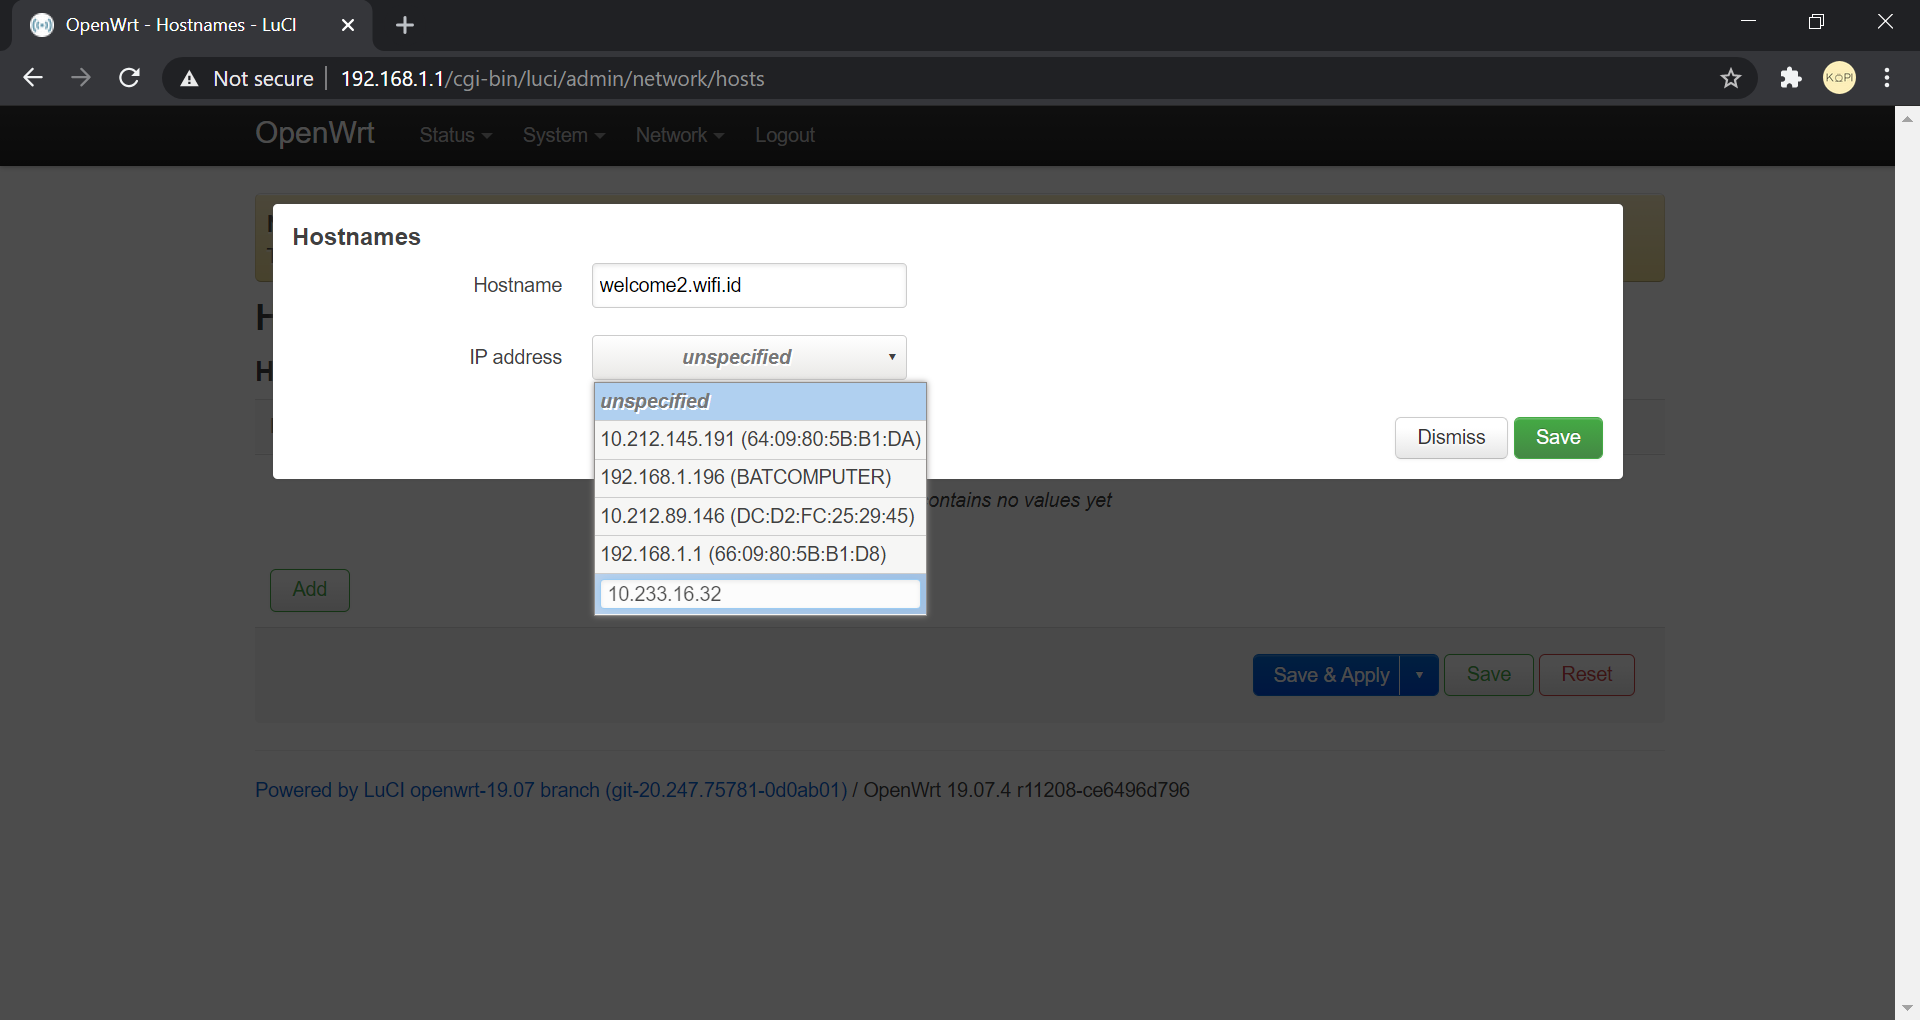
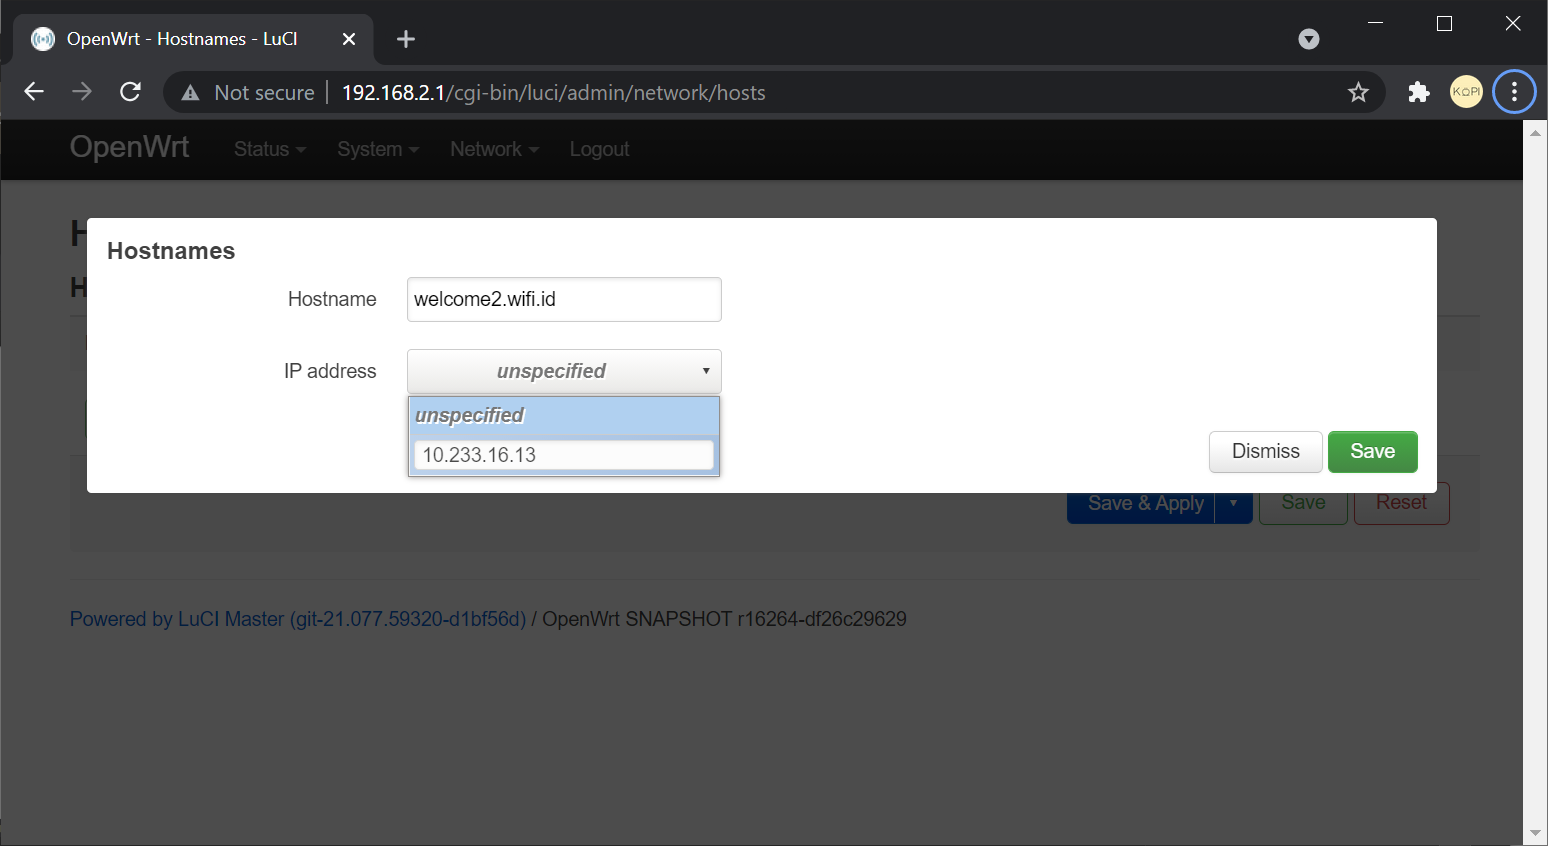
update articles

diff --git a/posts/autologin-kopijahe/index.html b/posts/autologin-kopijahe/index.html
@@ -1,4 +1,4 @@
-<!doctype html><html lang=en><head><meta charset=utf-8><meta http-equiv=x-ua-compatible content="IE=edge"><meta name=viewport content="width=device-width,initial-scale=1,shrink-to-fit=no"><title>Tutorial Penggunaan Aplikasi Autologin - Blog KopiJahe</title><meta name=description content="Pada kesempatan kali ini, saya merilis aplikasi untuk keperluan login otomatis di jaringan @wifi.id dan wms dan turunannya dengan berbagai fitur"><meta name=keywords content="/"><meta name=author content="KopiJahe"><link rel=canonical href=https://blog.kopijahe.my.id/posts/autologin-kopijahe/><meta name=google-site-verification content="XYZabc"><link href=https://blog.kopijahe.my.id/assets/css/stylesheet.min.17993db319ec7e8f0f1cc1fa992a916d01e3c8836ebbfd6f6876d9bbe8f73603.css integrity="sha256-F5k9sxnsfo8PHMH6mSqRbQHjyINuu/1vaHbZu+j3NgM=" rel="preload stylesheet" as=style><link rel=apple-touch-icon href=https://blog.kopijahe.my.id/apple-touch-icon.png><link rel=icon href=https://blog.kopijahe.my.id/favicon.ico><meta name=generator content="Hugo 0.75.1"><script type=application/javascript>var doNotTrack=false;if(!doNotTrack){window.ga=window.ga||function(){(ga.q=ga.q||[]).push(arguments)};ga.l=+new Date;ga('create','UA-179524169-1','auto');ga('send','pageview');}</script><script async src=https://www.google-analytics.com/analytics.js></script><meta property="og:title" content="Tutorial Penggunaan Aplikasi Autologin"><meta property="og:description" content="Pada kesempatan kali ini, saya merilis aplikasi untuk keperluan login otomatis di jaringan @wifi.id dan wms dan turunannya dengan berbagai fitur"><meta property="og:type" content="article"><meta property="og:url" content="https://blog.kopijahe.my.id/posts/autologin-kopijahe/"><meta property="og:image" content="https://blog.kopijahe.my.id/60"><meta property="article:published_time" content="2020-12-10T10:41:55+07:00"><meta property="article:modified_time" content="2020-12-10T10:41:55+07:00"><meta property="og:site_name" content="KopiJahe"><meta name=twitter:card content="summary_large_image"><meta name=twitter:image content="https://blog.kopijahe.my.id/60"><meta name=twitter:title content="Tutorial Penggunaan Aplikasi Autologin"><meta name=twitter:description content="Pada kesempatan kali ini, saya merilis aplikasi untuk keperluan login otomatis di jaringan @wifi.id dan wms dan turunannya dengan berbagai fitur"><meta itemprop=name content="Tutorial Penggunaan Aplikasi Autologin"><meta itemprop=description content="Pada kesempatan kali ini, saya merilis aplikasi untuk keperluan login otomatis di jaringan @wifi.id dan wms dan turunannya dengan berbagai fitur"><meta itemprop=datePublished content="2020-12-10T10:41:55+07:00"><meta itemprop=dateModified content="2020-12-10T10:41:55+07:00"><meta itemprop=wordCount content="588"><meta itemprop=image content="https://blog.kopijahe.my.id/60"><meta itemprop=keywords content></head><body class=single id=top><noscript><style type=text/css>.theme-toggle,.top-link{display:none}</style></noscript><header class=header><nav class=nav><p class=logo><a href=https://blog.kopijahe.my.id>Blog KopiJahe</a></p><ul class=menu id=menu onscroll=menu_on_scroll()></ul></nav></header><main class=main><article class=post-single><header class=post-header><h1 class=post-title>Tutorial Penggunaan Aplikasi Autologin</h1><div class=post-meta><time>December 10, 2020</time>&nbsp;·&nbsp;KopiJahe</div></header><figure class=entry-cover><img src=https://blog.kopijahe.my.id/img/autologin-single/banner.svg alt><p></p></figure><div class=post-content><p>Pada kesempatan kali ini, saya merilis aplikasi untuk keperluan login otomatis di jaringan @wifi.id dan wms dan turunannya dengan berbagai fitur</p><pre><code>[*] Deteksi otomatis halaman login wifi.id yang digunakan
+<!doctype html><html lang=en><head><meta charset=utf-8><meta http-equiv=x-ua-compatible content="IE=edge"><meta name=viewport content="width=device-width,initial-scale=1,shrink-to-fit=no"><title>Tutorial Penggunaan Aplikasi Autologin - Blog KopiJahe</title><meta name=description content="Pada kesempatan kali ini, saya merilis aplikasi untuk keperluan login otomatis di jaringan @wifi.id dan wms dan turunannya dengan berbagai fitur"><meta name=keywords content="/"><meta name=author content="KopiJahe"><link rel=canonical href=https://blog.kopijahe.my.id/posts/autologin-kopijahe/><meta name=google-site-verification content="XYZabc"><link href=https://blog.kopijahe.my.id/assets/css/stylesheet.min.17993db319ec7e8f0f1cc1fa992a916d01e3c8836ebbfd6f6876d9bbe8f73603.css integrity="sha256-F5k9sxnsfo8PHMH6mSqRbQHjyINuu/1vaHbZu+j3NgM=" rel="preload stylesheet" as=style><link rel=apple-touch-icon href=https://blog.kopijahe.my.id/apple-touch-icon.png><link rel=icon href=https://blog.kopijahe.my.id/favicon.ico><meta name=generator content="Hugo 0.75.1"><script type=application/javascript>var doNotTrack=false;if(!doNotTrack){window.ga=window.ga||function(){(ga.q=ga.q||[]).push(arguments)};ga.l=+new Date;ga('create','UA-179524169-1','auto');ga('send','pageview');}</script><script async src=https://www.google-analytics.com/analytics.js></script><meta property="og:title" content="Tutorial Penggunaan Aplikasi Autologin"><meta property="og:description" content="Pada kesempatan kali ini, saya merilis aplikasi untuk keperluan login otomatis di jaringan @wifi.id dan wms dan turunannya dengan berbagai fitur"><meta property="og:type" content="article"><meta property="og:url" content="https://blog.kopijahe.my.id/posts/autologin-kopijahe/"><meta property="og:image" content="https://blog.kopijahe.my.id/60"><meta property="article:published_time" content="2020-12-10T10:41:55+07:00"><meta property="article:modified_time" content="2020-12-10T10:41:55+07:00"><meta property="og:site_name" content="KopiJahe"><meta name=twitter:card content="summary_large_image"><meta name=twitter:image content="https://blog.kopijahe.my.id/60"><meta name=twitter:title content="Tutorial Penggunaan Aplikasi Autologin"><meta name=twitter:description content="Pada kesempatan kali ini, saya merilis aplikasi untuk keperluan login otomatis di jaringan @wifi.id dan wms dan turunannya dengan berbagai fitur"><meta itemprop=name content="Tutorial Penggunaan Aplikasi Autologin"><meta itemprop=description content="Pada kesempatan kali ini, saya merilis aplikasi untuk keperluan login otomatis di jaringan @wifi.id dan wms dan turunannya dengan berbagai fitur"><meta itemprop=datePublished content="2020-12-10T10:41:55+07:00"><meta itemprop=dateModified content="2020-12-10T10:41:55+07:00"><meta itemprop=wordCount content="546"><meta itemprop=image content="https://blog.kopijahe.my.id/60"><meta itemprop=keywords content></head><body class=single id=top><noscript><style type=text/css>.theme-toggle,.top-link{display:none}</style></noscript><header class=header><nav class=nav><p class=logo><a href=https://blog.kopijahe.my.id>Blog KopiJahe</a></p><ul class=menu id=menu onscroll=menu_on_scroll()></ul></nav></header><main class=main><article class=post-single><header class=post-header><h1 class=post-title>Tutorial Penggunaan Aplikasi Autologin</h1><div class=post-meta><time>December 10, 2020</time>&nbsp;·&nbsp;KopiJahe</div></header><figure class=entry-cover><img src=https://blog.kopijahe.my.id/img/autologin-single/banner.svg alt><p></p></figure><div class=post-content><p>Pada kesempatan kali ini, saya merilis aplikasi untuk keperluan login otomatis di jaringan @wifi.id dan wms dan turunannya dengan berbagai fitur</p><pre><code>[*] Deteksi otomatis halaman login wifi.id yang digunakan
 [*] Deteksi gagalnya login yang lebih baik
 [*] Dukungan deteksi captive portal/halaman landing yang lebih baik
 [*] Dukungan penyedia layanan cek captive portal yang lebih banyak
@@ -18,11 +18,11 @@
 
 [*] Untuk WMS/WMS Lite yang hanya menggunakan password, username yang digunakan sama dengan password.
 </code></pre><p>Contoh:</p><pre><code>kopijahe -l &quot;no&quot; -u &quot;88303539057&quot; -p &quot;81702447201807&quot; -v &quot;wifi.id&quot; -a
-</code></pre><p><img src=../../img/autologin-single/10-kopijahe-a.png alt=kopijahe-a></p><p><img src=../../img/autologin-single/10-kopijahe-a-2.png alt=kopijahe-a-2></p><blockquote><p>⚠ Jika deteksi otomatis tidak berhasil, anda bisa memasukkan URL landing secara manual dengan mengganti parameter <code>-a</code> dengan <code>-d</code>, caranya bisa dilihat <a href=../man-autologin-kopijahe/#pengaturan-autologin-menggunakan-url-landing>di sini</a>.</p></blockquote><ol start=10><li>Sebelum menjalankan aplikasi autologin, buka dulu pengaturan OpenWrt via browser (biasanya: <a href=http://192.168.1.1>192.168.1.1</a>), lalu buka menu <strong>Network</strong> -> <strong>Hostnames</strong></li></ol><p><img src=../../img/autologin-single/11-openwrt.png alt=openwrt-hostnames></p><ol start=11><li>Tekan tombol <strong>Add</strong>, lalu masukkan nilai berikut, lalu tekan tombol <strong>Save</strong> dan <strong>Save and Apply</strong></li></ol><blockquote><p><strong>Hostname:</strong> welcome2.wifi.id<br><strong>IP address:</strong> 10.233.16.32 atau 10.233.16.13</p></blockquote><p><img src=../../img/autologin-single/11-openwrt-2.png alt=openwrt-hostnames-2></p><p><img src=../../img/autologin-single/11-openwrt-3.png alt=openwrt-hostnames-3></p><ol start=12><li>Kembali ke jendela PuTTY, jalankan aplikasi autologin menggunakan perintah berikut:</li></ol><pre><code>kopijahe
-</code></pre><ol start=13><li>Status login bisa dilihat melalui halaman <strong>System Log</strong> OpenWrt via browser (biasanya: <a href=http://192.168.1.1>192.168.1.1</a>) menggunakan kata kunci <code>notice root</code></li></ol><p><img src=../../img/autologin-single/13-openwrt-system-logs.png alt=openwrt-syslog></p><p><img src=../../img/autologin-single/13-openwrt-system-logs-2.png alt=openwrt-syslog-2></p><blockquote><p>⚠ Mulai dari versi 1.3.8, kata kunci yang digunakan adalah <code>kopijahe</code></p></blockquote><ol start=14><li>Agar proses autologin bisa berjalan meski router sempat mati atau jendela PuTTY ditutup, maka harus kita masukkan di berkas <code>/etc/rc.local</code>, untuk itu, kita kembali ke jendela PuTTY lagi, lalu tekan tombol <code>Ctrl + C</code> untuk menghentikan proses autologin yang sedang berjalan terlebih dahulu.</li></ol><p><img src=../../img/autologin-single/14-kopijahe-ctrl-c.png alt=kopijahe-ctrl-c></p><ol start=15><li>Lalu ketikkan perintah ini untuk membuka berkas <code>/etc/rc.local</code></li></ol><pre><code>vi /etc/rc.local
-</code></pre><p><img src=../../img/autologin-single/15-vi-etc-rc-local.png alt=vi-etc-rc-local></p><ol start=16><li>Untuk memulai mode input, tekan tombol <code>i</code>, perhatikan indikator di bagian pojok bawah kiri, akan berubah dari <code>-</code> menjadi <code>I</code>:</li></ol><p><img src=../../img/autologin-single/15-vi-etc-rc-local-2.png alt=vi-etc-rc-local-2></p><p><img src=../../img/autologin-single/15-vi-etc-rc-local-3.png alt=vi-etc-rc-local-3></p><ol start=17><li>Tambahkan 2 baris berikut sebelum baris <code>exit 0</code></li></ol><pre><code>sleep 10 &amp;&amp;
+</code></pre><p><img src=../../img/autologin-single/10-kopijahe-a.png alt=kopijahe-a></p><p><img src=../../img/autologin-single/10-kopijahe-a-2.png alt=kopijahe-a-2></p><blockquote><p>⚠ Jika deteksi otomatis tidak berhasil, anda bisa memasukkan URL landing secara manual dengan mengganti parameter <code>-a</code> dengan <code>-d</code>, caranya bisa dilihat <a href=../man-autologin-kopijahe/#pengaturan-autologin-menggunakan-url-landing>di sini</a>.</p></blockquote><ol start=10><li>Sebelum menjalankan aplikasi autologin, buka dulu pengaturan OpenWrt via browser (biasanya: <a href=http://192.168.1.1>192.168.1.1</a>), lalu buka menu <strong>Network</strong> -> <strong>Hostnames</strong></li></ol><p><img src=../../img/autologin-single/11-openwrt.png alt=openwrt-hostnames></p><ol start=11><li>Tekan tombol <strong>Add</strong>, lalu masukkan 2 nilai berikut, lalu tekan tombol <strong>Save</strong> dan <strong>Save and Apply</strong></li></ol><blockquote><p><strong>Hostname:</strong> welcome2.wifi.id & logout.wifi.id<br><strong>IP address:</strong> 10.233.16.13</p></blockquote><p><img src=../../img/autologin-single/11-openwrt-2.png alt=openwrt-hostnames-2></p><p><img src=../../img/autologin-single/11-openwrt-3.png alt=openwrt-hostnames-3></p><ol start=12><li>Kembali ke jendela PuTTY, jalankan aplikasi autologin menggunakan perintah berikut:</li></ol><pre><code>kopijahe -z
+</code></pre><ol start=13><li>Status login akan muncul di jendela PuTTY:</li></ol><p><img src=../../img/autologin-single/13-kopijahe-z.png alt=kopijahe-z></p><ol start=14><li>Agar proses autologin bisa berjalan meski router sempat mati atau jendela PuTTY ditutup, maka harus kita masukkan di berkas <code>/etc/rc.local</code>, untuk itu, ketikkan perintah ini untuk membuka berkas <code>/etc/rc.local</code></li></ol><pre><code>vi /etc/rc.local
+</code></pre><p><img src=../../img/autologin-single/15-vi-etc-rc-local.png alt=vi-etc-rc-local></p><ol start=15><li>Untuk memulai mode input, tekan tombol <code>i</code>, perhatikan indikator di bagian pojok bawah kiri, akan berubah dari <code>-</code> menjadi <code>I</code>:</li></ol><p><img src=../../img/autologin-single/15-vi-etc-rc-local-2.png alt=vi-etc-rc-local-2></p><p><img src=../../img/autologin-single/15-vi-etc-rc-local-3.png alt=vi-etc-rc-local-3></p><ol start=16><li>Tambahkan 2 baris berikut sebelum baris <code>exit 0</code></li></ol><pre><code>sleep 10 &amp;&amp;
 kopijahe &amp;
-</code></pre><p><img src=../../img/autologin-single/15-vi-etc-rc-local-4.png alt=vi-etc-rc-local-4></p><ol start=18><li>Untuk menyimpan perubahan berkas, tekan tombol <code>ESC</code>, diikuti dengan mengetikkan <code>:wq</code></li></ol><p><img src=../../img/autologin-single/15-vi-etc-rc-local-5.png alt=vi-etc-rc-local-5></p><ol start=19><li>Untuk menjalankan proses autologin kembali, bisa dicoba reboot router, atau cabut-pasang kabel daya router, atau menggunakan perintah:</li></ol><pre><code>sh /etc/rc.local
+</code></pre><p><img src=../../img/autologin-single/15-vi-etc-rc-local-4.png alt=vi-etc-rc-local-4></p><ol start=17><li>Untuk menyimpan perubahan berkas, tekan tombol <code>ESC</code>, diikuti dengan mengetikkan <code>:wq</code></li></ol><p><img src=../../img/autologin-single/15-vi-etc-rc-local-5.png alt=vi-etc-rc-local-5></p><ol start=18><li>Untuk menjalankan proses autologin kembali, bisa dicoba reboot router, atau cabut-pasang kabel daya router, atau menggunakan perintah:</li></ol><pre><code>sh /etc/rc.local
 </code></pre><h3 id=versi-video-dari-tutorial-ini>Versi video dari tutorial ini:</h3><div style=position:relative;padding-bottom:56.25%;height:0;overflow:hidden><iframe src=https://www.youtube.com/embed/qirOYITmaTI style=position:absolute;top:0;left:0;width:100%;height:100%;border:0 allowfullscreen title="YouTube Video"></iframe></div><h3 id=pengaturan-lanjutan-aplikasi>Pengaturan lanjutan aplikasi</h3><p>Bisa merujuk ke <a href=../man-autologin-kopijahe>artikel ini</a>.</p><h3 id=kirim-dukungan-donasi-melalui>Kirim dukungan donasi melalui:</h3><p><a href=https://trakteer.id/kopijahe><img src=../../img/trakteer-button.png alt=trakteer></a>
 <a href=https://saweria.co/kopijahe><img src=../../img/saweria-button.png alt=saweria></a></p></div><footer class=post-footer><div class=share-buttons><a target=_blank rel="noopener noreferrer" aria-label="share Tutorial Penggunaan Aplikasi Autologin on twitter" href="https://twitter.com/intent/tweet/?text=Tutorial%20Penggunaan%20Aplikasi%20Autologin&url=https%3a%2f%2fblog.kopijahe.my.id%2fposts%2fautologin-kopijahe%2f"><svg viewBox="0 0 512 512"><path d="M449.446.0C483.971.0 512 28.03 512 62.554v386.892C512 483.97 483.97 512 449.446 512h-386.892c-34.524.0-62.554-28.03-62.554-62.554v-386.892c0-34.524 28.029-62.554 62.554-62.554h386.892zm-253.927 424.544c135.939.0 210.268-112.643 210.268-210.268.0-3.218.0-6.437-.153-9.502 14.406-10.421 26.973-23.448 36.935-38.314-13.18 5.824-27.433 9.809-42.452 11.648 15.326-9.196 26.973-23.602 32.49-40.92-14.252 8.429-30.038 14.56-46.896 17.931-13.487-14.406-32.644-23.295-53.946-23.295-40.767.0-73.87 33.104-73.87 73.87.0 5.824.613 11.494 1.992 16.858-61.456-3.065-115.862-32.49-152.337-77.241-6.284 10.881-9.962 23.601-9.962 37.088.0 25.594 13.027 48.276 32.95 61.456-12.107-.307-23.448-3.678-33.41-9.196v.92c0 35.862 25.441 65.594 59.311 72.49-6.13 1.686-12.72 2.606-19.464 2.606-4.751.0-9.348-.46-13.946-1.38 9.349 29.426 36.628 50.728 68.965 51.341-25.287 19.771-57.164 31.571-91.8 31.571-5.977.0-11.801-.306-17.625-1.073 32.337 21.15 71.264 33.41 112.95 33.41z"/></svg></a><a target=_blank rel="noopener noreferrer" aria-label="share Tutorial Penggunaan Aplikasi Autologin on linkedin" href="https://www.linkedin.com/shareArticle?mini=true&url=https%3a%2f%2fblog.kopijahe.my.id%2fposts%2fautologin-kopijahe%2f&title=Tutorial%20Penggunaan%20Aplikasi%20Autologin&summary=Tutorial%20Penggunaan%20Aplikasi%20Autologin&source=https%3a%2f%2fblog.kopijahe.my.id%2fposts%2fautologin-kopijahe%2f"><svg viewBox="0 0 512 512"><path d="M449.446.0C483.971.0 512 28.03 512 62.554v386.892C512 483.97 483.97 512 449.446 512h-386.892c-34.524.0-62.554-28.03-62.554-62.554v-386.892c0-34.524 28.029-62.554 62.554-62.554h386.892zM160.461 423.278V197.561h-75.04v225.717h75.04zm270.539.0v-129.439c0-69.333-37.018-101.586-86.381-101.586-39.804.0-57.634 21.891-67.617 37.266v-31.958h-75.021c.995 21.181.0 225.717.0 225.717h75.02v-126.056c0-6.748.486-13.492 2.474-18.315 5.414-13.475 17.767-27.434 38.494-27.434 27.135.0 38.007 20.707 38.007 51.037v120.768h75.024zm-307.552-334.556c-25.674.0-42.448 16.879-42.448 39.002.0 21.658 16.264 39.002 41.455 39.002h.484c26.165.0 42.452-17.344 42.452-39.002-.485-22.092-16.241-38.954-41.943-39.002z"/></svg></a><a target=_blank rel="noopener noreferrer" aria-label="share Tutorial Penggunaan Aplikasi Autologin on reddit" href="https://reddit.com/submit?url=https%3a%2f%2fblog.kopijahe.my.id%2fposts%2fautologin-kopijahe%2f&title=Tutorial%20Penggunaan%20Aplikasi%20Autologin"><svg viewBox="0 0 512 512"><path d="M449.446.0C483.971.0 512 28.03 512 62.554v386.892C512 483.97 483.97 512 449.446 512h-386.892c-34.524.0-62.554-28.03-62.554-62.554v-386.892c0-34.524 28.029-62.554 62.554-62.554h386.892zM446 265.638c0-22.964-18.616-41.58-41.58-41.58-11.211.0-21.361 4.457-28.841 11.666-28.424-20.508-67.586-33.757-111.204-35.278l18.941-89.121 61.884 13.157c.756 15.734 13.642 28.29 29.56 28.29 16.407.0 29.706-13.299 29.706-29.701.0-16.403-13.299-29.702-29.706-29.702-11.666.0-21.657 6.792-26.515 16.578l-69.105-14.69c-1.922-.418-3.939-.042-5.585 1.036-1.658 1.073-2.811 2.761-3.224 4.686l-21.152 99.438c-44.258 1.228-84.046 14.494-112.837 35.232-7.468-7.164-17.589-11.591-28.757-11.591-22.965.0-41.585 18.616-41.585 41.58.0 16.896 10.095 31.41 24.568 37.918-.639 4.135-.99 8.328-.99 12.576.0 63.977 74.469 115.836 166.33 115.836s166.334-51.859 166.334-115.836c0-4.218-.347-8.387-.977-12.493 14.564-6.47 24.735-21.034 24.735-38.001zm-119.474 108.193c-20.27 20.241-59.115 21.816-70.534 21.816-11.428.0-50.277-1.575-70.522-21.82-3.007-3.008-3.007-7.882.0-10.889 3.003-2.999 7.882-3.003 10.885.0 12.777 12.781 40.11 17.317 59.637 17.317 19.522.0 46.86-4.536 59.657-17.321 3.016-2.999 7.886-2.995 10.885.008 3.008 3.011 3.003 7.882-.008 10.889zm-5.23-48.781c-16.373.0-29.701-13.324-29.701-29.698.0-16.381 13.328-29.714 29.701-29.714 16.378.0 29.706 13.333 29.706 29.714.0 16.374-13.328 29.698-29.706 29.698zm-160.386-29.702c0-16.381 13.328-29.71 29.714-29.71 16.369.0 29.689 13.329 29.689 29.71.0 16.373-13.32 29.693-29.689 29.693-16.386.0-29.714-13.32-29.714-29.693z"/></svg></a><a target=_blank rel="noopener noreferrer" aria-label="share Tutorial Penggunaan Aplikasi Autologin on facebook" href="https://facebook.com/sharer/sharer.php?u=https%3a%2f%2fblog.kopijahe.my.id%2fposts%2fautologin-kopijahe%2f"><svg viewBox="0 0 512 512"><path d="M449.446.0C483.971.0 512 28.03 512 62.554v386.892C512 483.97 483.97 512 449.446 512H342.978v-192.915h66.6l12.672-82.621h-79.272v-53.617c0-22.603 11.073-44.636 46.58-44.636H425.6v-70.34s-32.71-5.582-63.982-5.582c-65.288.0-107.96 39.569-107.96 111.204v62.971h-72.573v82.621h72.573V512h-191.104c-34.524.0-62.554-28.03-62.554-62.554v-386.892c0-34.524 28.029-62.554 62.554-62.554h386.892z"/></svg></a><a target=_blank rel="noopener noreferrer" aria-label="share Tutorial Penggunaan Aplikasi Autologin on whatsapp" href="https://api.whatsapp.com/send?text=Tutorial%20Penggunaan%20Aplikasi%20Autologin%20-%20https%3a%2f%2fblog.kopijahe.my.id%2fposts%2fautologin-kopijahe%2f"><svg viewBox="0 0 512 512"><path d="M449.446.0C483.971.0 512 28.03 512 62.554v386.892C512 483.97 483.97 512 449.446 512h-386.892c-34.524.0-62.554-28.03-62.554-62.554v-386.892c0-34.524 28.029-62.554 62.554-62.554h386.892zm-58.673 127.703c-33.842-33.881-78.847-52.548-126.798-52.568-98.799.0-179.21 80.405-179.249 179.234-.013 31.593 8.241 62.428 23.927 89.612l-25.429 92.884 95.021-24.925c26.181 14.28 55.659 21.807 85.658 21.816h.074c98.789.0 179.206-80.413 179.247-179.243.018-47.895-18.61-92.93-52.451-126.81zM263.976 403.485h-.06c-26.734-.01-52.954-7.193-75.828-20.767l-5.441-3.229-56.386 14.792 15.05-54.977-3.542-5.637c-14.913-23.72-22.791-51.136-22.779-79.287.033-82.142 66.867-148.971 149.046-148.971 39.793.014 77.199 15.531 105.329 43.692 28.128 28.16 43.609 65.592 43.594 105.4-.034 82.149-66.866 148.983-148.983 148.984zm81.721-111.581c-4.479-2.242-26.499-13.075-30.604-14.571-4.105-1.495-7.091-2.241-10.077 2.241-2.986 4.483-11.569 14.572-14.182 17.562-2.612 2.988-5.225 3.364-9.703 1.12-4.479-2.241-18.91-6.97-36.017-22.23-13.314-11.876-22.304-26.542-24.916-31.026s-.279-6.908 1.963-9.14c2.016-2.007 4.48-5.232 6.719-7.847 2.24-2.615 2.986-4.484 4.479-7.472 1.493-2.99.747-5.604-.374-7.846-1.119-2.241-10.077-24.288-13.809-33.256-3.635-8.733-7.327-7.55-10.077-7.688-2.609-.13-5.598-.158-8.583-.158-2.986.0-7.839 1.121-11.944 5.604-4.105 4.484-15.675 15.32-15.675 37.364.0 22.046 16.048 43.342 18.287 46.332 2.24 2.99 31.582 48.227 76.511 67.627 10.685 4.615 19.028 7.371 25.533 9.434 10.728 3.41 20.492 2.929 28.209 1.775 8.605-1.285 26.499-10.833 30.231-21.295 3.732-10.464 3.732-19.431 2.612-21.298-1.119-1.869-4.105-2.99-8.583-5.232z"/></svg></a><a target=_blank rel="noopener noreferrer" aria-label="share Tutorial Penggunaan Aplikasi Autologin on telegram" href="https://telegram.me/share/url?text=Tutorial%20Penggunaan%20Aplikasi%20Autologin&url=https%3a%2f%2fblog.kopijahe.my.id%2fposts%2fautologin-kopijahe%2f"><svg viewBox="2 2 28 28"><path d="M26.49 29.86H5.5a3.37 3.37.0 01-2.47-1 3.35 3.35.0 01-1-2.47V5.48A3.36 3.36.0 013 3 3.37 3.37.0 015.5 2h21A3.38 3.38.0 0129 3a3.36 3.36.0 011 2.46V26.37a3.35 3.35.0 01-1 2.47A3.38 3.38.0 0126.49 29.86zm-5.38-6.71a.79.79.0 00.85-.66L24.73 9.24a.55.55.0 00-.18-.46.62.62.0 00-.41-.17q-.08.0-16.53 6.11a.59.59.0 00-.41.59.57.57.0 00.43.52l4 1.24 1.61 4.83a.62.62.0 00.63.43.56.56.0 00.4-.17L16.54 20l4.09 3A.9.9.0 0021.11 23.15zM13.8 20.71l-1.21-4q8.72-5.55 8.78-5.55c.15.0.23.0.23.16a.18.18.0 010 .06s-2.51 2.3-7.52 6.8z"/></svg></a></div></footer><script src=https://utteranc.es/client.js repo=kopijahe/blog.kopijahe.my.id issue-term=title theme=github-light crossorigin=anonymous async></script></article></main><footer class=footer><span>&copy; 2021 <a href=https://blog.kopijahe.my.id>Blog KopiJahe</a></span>
 <span>&#183;</span>
